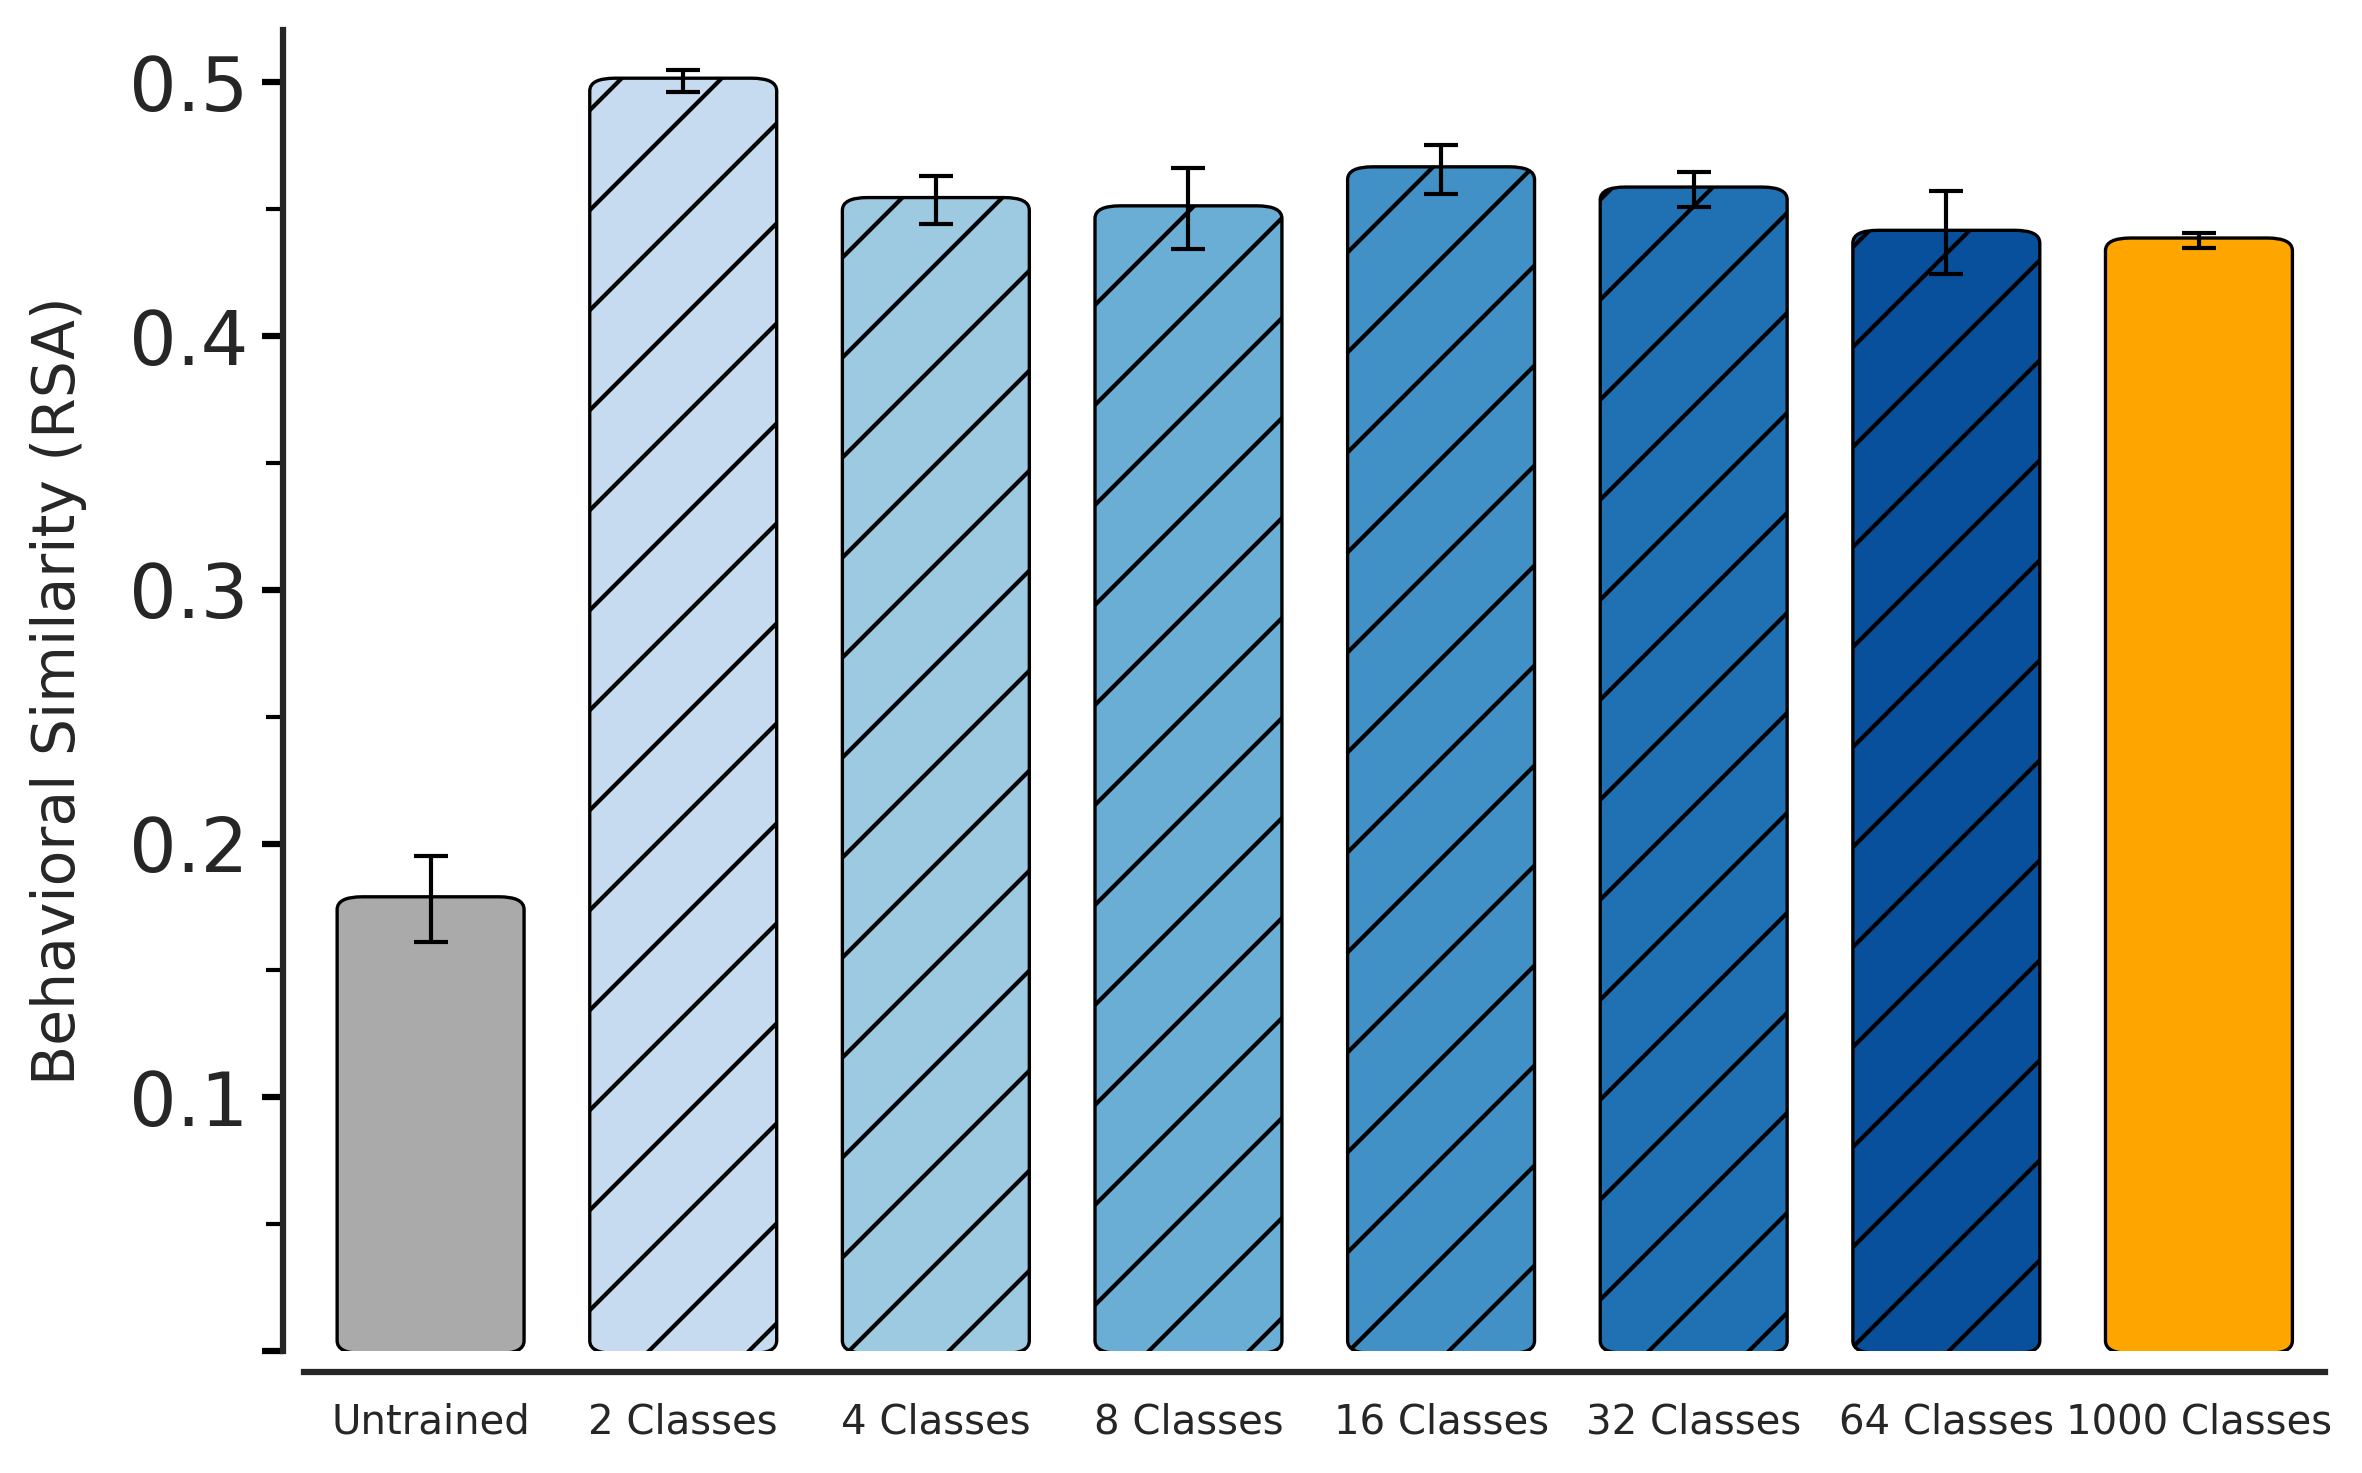
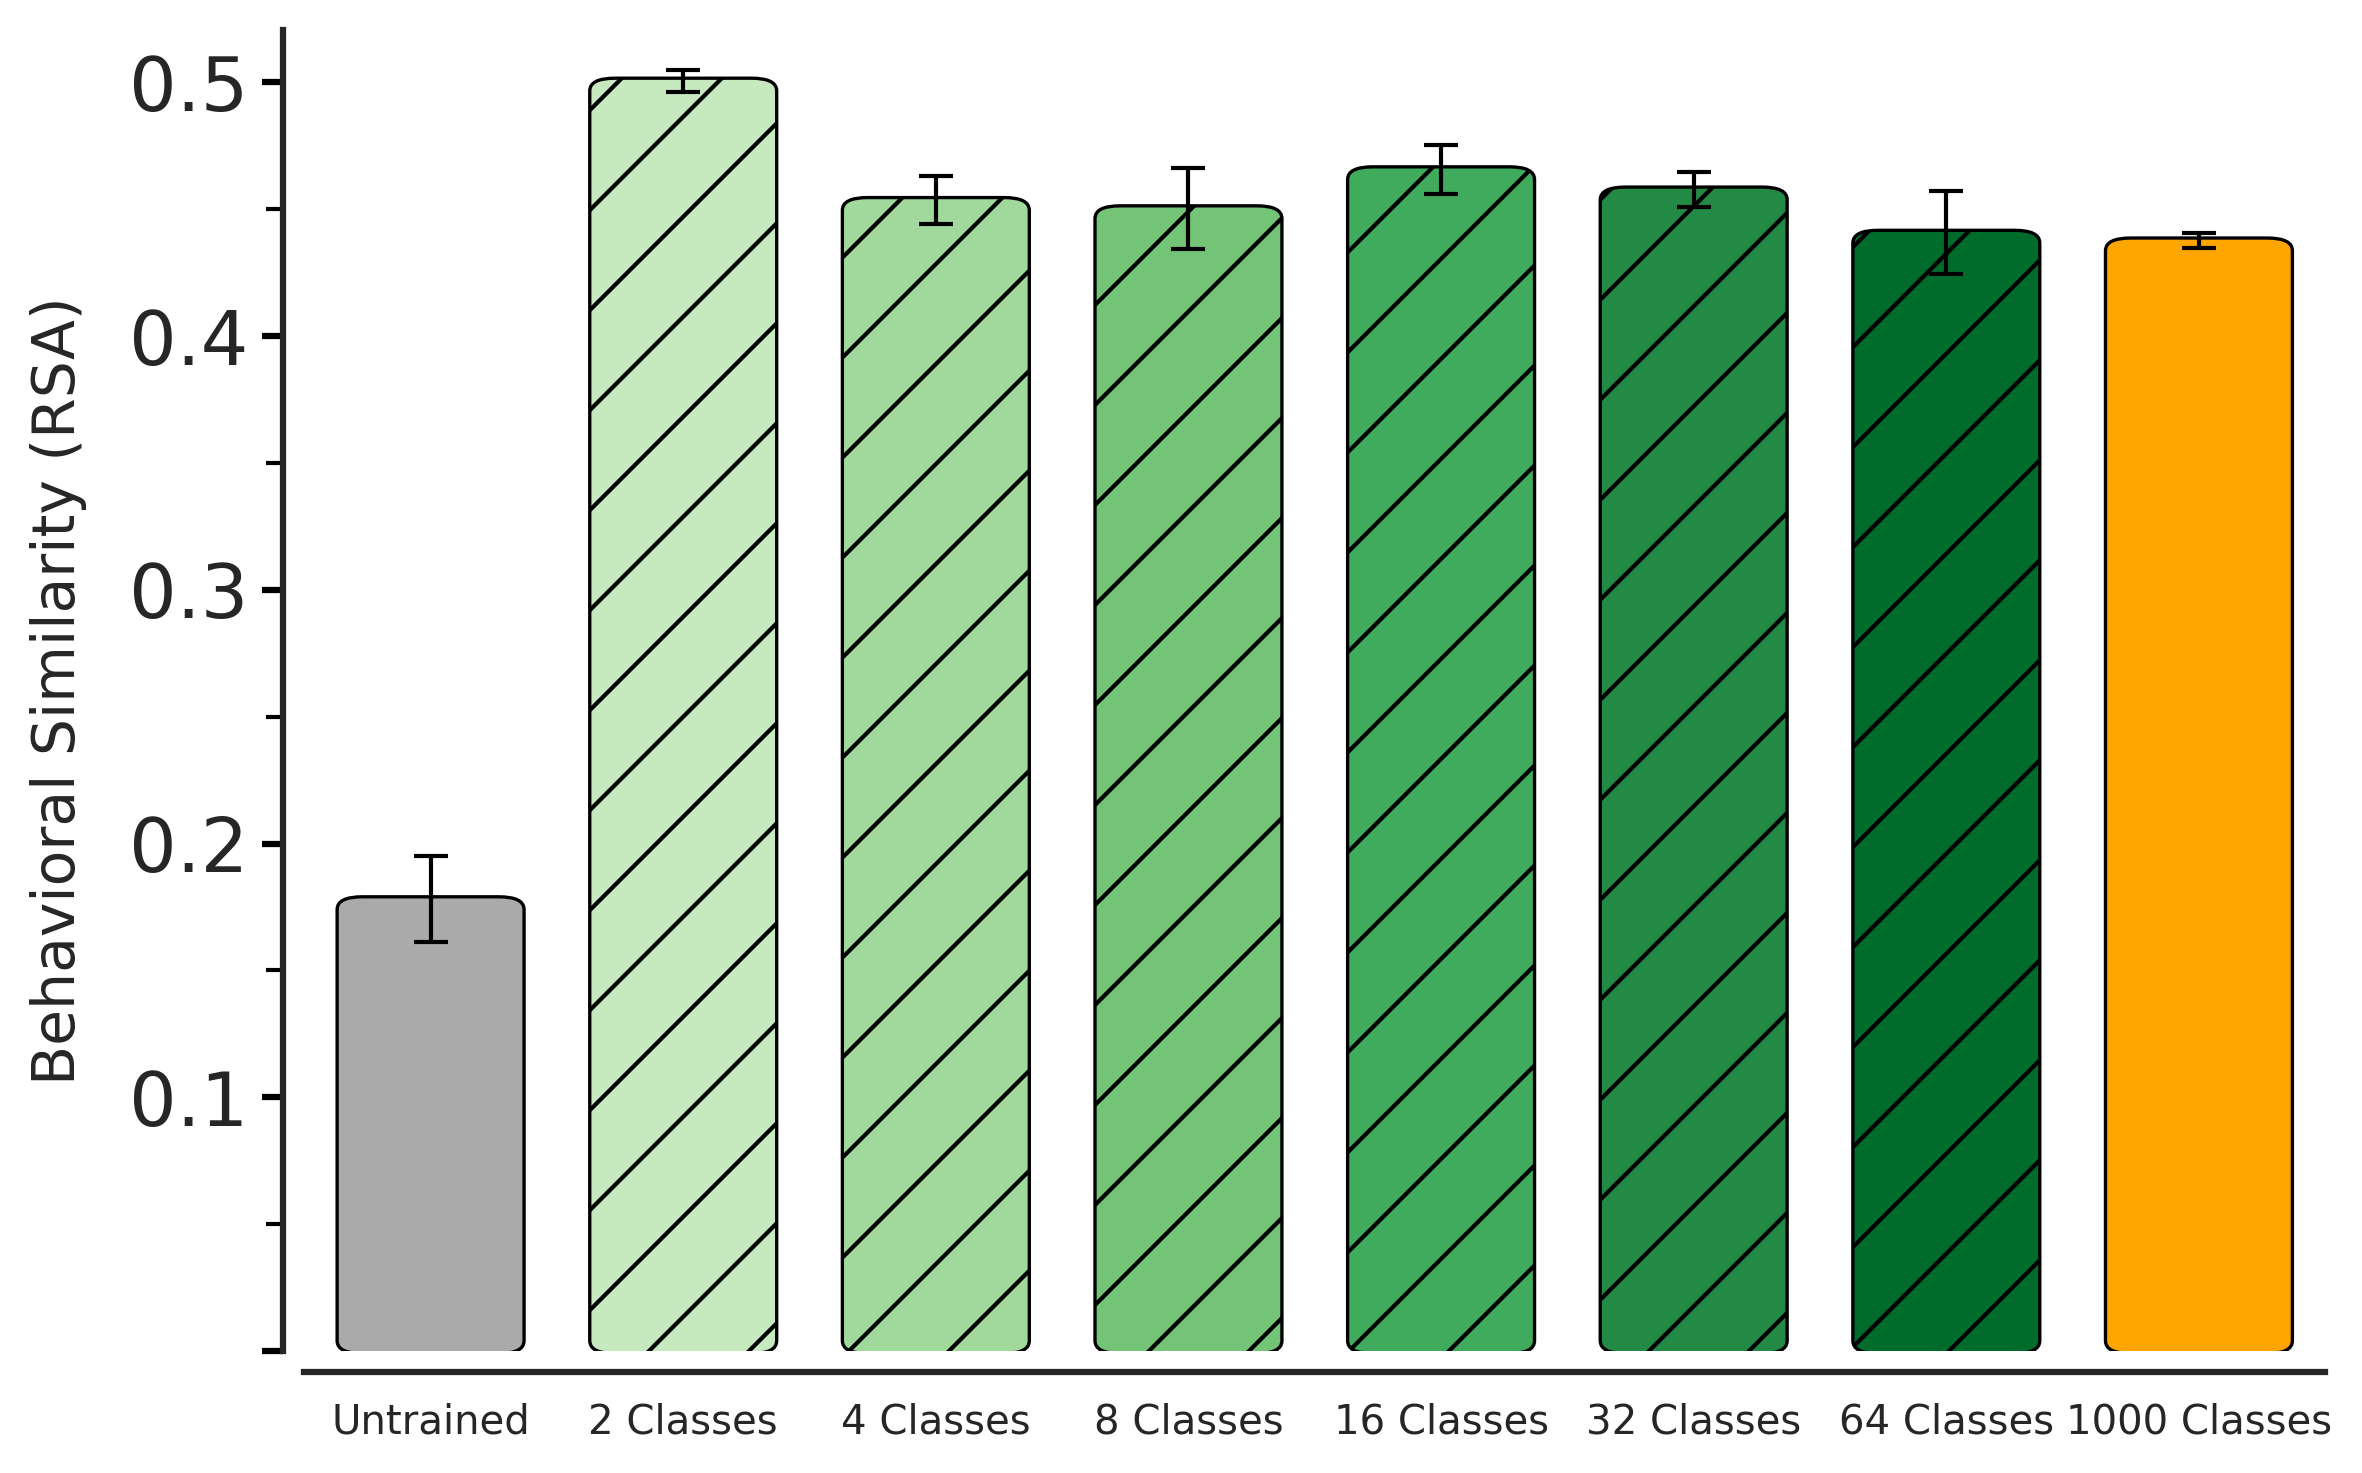
Figure stuff!

diff --git a/plotters/fig3/reconstructed_rsa_things.py b/plotters/fig3/reconstructed_rsa_things.py
@@ -23,7 +23,7 @@ import plotters.utils_plotter as plt_utils
 COLORS = {
     "initial": "#7f8c8d", # Grey for Untrained
     "final": "#FFA500",   # Adjusted to DarkOrange for 1000 Classes
-    "pca": dict(zip([2, 4, 8, 16, 32, 64], sns.color_palette('Blues', n_colors=6))),
+    "pca": dict(zip([2, 4, 8, 16, 32, 64], sns.color_palette('Greens', n_colors=6))),
 }
 
 def create_reconstructed_rsa_plot(
@@ -90,15 +90,19 @@ def create_reconstructed_rsa_plot(
             if not best_pc_layer_scores.empty:
                 mean_best_pc = best_pc_layer_scores.mean()
                 std_best_pc = best_pc_layer_scores.std()
+
+                pc_line_color = COLORS["pca"].get(4, '#808080') # Line color
                 
-                pc_color = COLORS["pca"].get(n_classes_best_pc, '#808080') 
-                pc_fill_color = sns.light_palette(pc_color, n_colors=3, as_cmap=False)[1] if isinstance(pc_color, str) else sns.set_hls_values(pc_color, l=0.85)
+                # Use a fixed blue from the COLORS["pca"] palette for the fill, as requested by the user.
+                # COLORS["pca"][16] is the 4th color in the 'Blues' palette of 6.
+                pc_fill_color = COLORS["pca"].get(2, '#ADD8E6') # Fill color - using a specific key from the palette
+                fill_alpha = 0.5
 
                 ax.plot(pca_k_values, np.full_like(pca_k_values, mean_best_pc, dtype=float),
-                        color=pc_color, linestyle='--', linewidth=2.275, 
+                        color=pc_line_color, linestyle='--', linewidth=2.275, 
                         label=f"{n_classes_best_pc} classes (full)", zorder=2)
                 ax.fill_between(pca_k_values, mean_best_pc - std_best_pc, mean_best_pc + std_best_pc, 
-                               color=pc_fill_color, alpha=0.25, zorder=1)
+                               color=pc_fill_color, alpha=fill_alpha, zorder=1)
 
         # Plot Untrained Data
         if untrained_data is not None and not untrained_data.empty:
@@ -185,37 +189,6 @@ def create_reconstructed_rsa_plot(
         plt.rcParams.update(original_rc_params) # Restore original rcParams
 
 
-_SKIP_ALWAYS = {"log_interval", "checkpoint_interval", "cfg_id", "score"}
-_PCA_COLS   = ("pca_labels", "pca_n_classes", "reconstruct_from_pcs", "pca_k")
-
-def _avg_over_subject_idx(df: pd.DataFrame) -> pd.DataFrame:
-    """
-    Collapse `subject_idx`; keep `seed` (if any) and PCA columns.
-    """
-    if df.empty or "subject_idx" not in df:
-        return df.copy()
-
-    d = df.copy()
-    d["subject_idx"] = pd.to_numeric(d["subject_idx"], errors="coerce")
-    d = d.dropna(subset=["subject_idx"])
-    if d.empty:
-        return d
-
-    skip = _SKIP_ALWAYS | {"subject_idx"}
-    group_cols = [c for c in d.columns if c not in skip]
-
-    out = (
-        d.groupby(group_cols, dropna=False, observed=False)["score"]
-          .mean()
-          .reset_index()
-    )
-
-    keep = ["layer", "score"]
-    if "seed" in out.columns:
-        keep.append("seed")
-    keep += [c for c in _PCA_COLS if c in out.columns]
-    return out[keep]
-
 def _load_csv(path: str) -> pd.DataFrame:
     if not os.path.isfile(path):
         raise FileNotFoundError(f"CSV file not found: {path}")
@@ -225,56 +198,44 @@ def _load_csv(path: str) -> pd.DataFrame:
 if __name__ == "__main__":
     cfg = {
         "metric": "Spearman",
-        "region": "ventral visual stream",
         "layers_1k": ["fc1"],
-        "layers_pc": ["fc1"],
-        "subject_idx": [0, 1, 2, 3, 4, 5, 6, 7],
+        "layers_pc": ["fc2"],
         "results_csv": "/home/ymehta3/research/VisionAI/visreps/logs/pc_reconstruction_analysis.csv",
-        "best_pc_n_classes": [64], # PCA n_classes to plot
-        "dataset": "nsd",
+        "best_pc_n_classes": [2], # PCA n_classes to plot
+        "dataset": "things",
     }
 
-    out_path = f"/home/ymehta3/research/VisionAI/visreps/plotters/fig2/reconstructed_rsa_{cfg['dataset']}_{cfg['region'][:6]}.png"
+    out_path = f"/home/ymehta3/research/VisionAI/visreps/plotters/fig3/reconstructed_rsa_{cfg['dataset']}.png"
     data_df = _load_csv(cfg["results_csv"])
     _, full_df = plt_utils.split_and_select_df(data_df,
                                             dataset=cfg["dataset"],
                                             metric=cfg["metric"],
-                                            region=cfg["region"],
                                             epoch=20,
-                                            subject_idx=cfg["subject_idx"],
                                             reconstruct_from_pcs=True,
                                             layers=cfg["layers_1k"])
 
-    full_df = _avg_over_subject_idx(full_df)
-    print("full_df: ", full_df)
-
+    print("full_df shape: ", full_df.shape)
     best_pc_df, _ = plt_utils.split_and_select_df(data_df,
                                         dataset=cfg["dataset"],
                                         metric=cfg["metric"],
-                                        region=cfg["region"],
                                         epoch=20,
-                                        subject_idx=cfg["subject_idx"],
                                         pca_n_classes=cfg["best_pc_n_classes"],
                                         reconstruct_from_pcs=False,
                                         layers=cfg["layers_pc"])
 
-    best_pc_df = _avg_over_subject_idx(best_pc_df)
-    print("best_pc_df: ", best_pc_df)
+    print("best_pc_df shape: ", best_pc_df.shape)
 
     untrained_results_csv = f"/home/ymehta3/research/VisionAI/visreps/logs/full-vs-pcs_{cfg['dataset']}.csv"
     data_df = _load_csv(untrained_results_csv)
     _, untrained_df = plt_utils.split_and_select_df(data_df,
                                             dataset=cfg["dataset"],
                                             metric=cfg["metric"],
-                                            region=cfg["region"],
                                             epoch=0,
-                                            subject_idx=cfg["subject_idx"],
                                             reconstruct_from_pcs=False,
                                             layers=cfg["layers_1k"])
 
     # This is the untrained results: should be plotted as a horizontal dashed line (mean + shaded std-dev).
-    untrained_df = _avg_over_subject_idx(untrained_df)
-    print("untrained_df: ", untrained_df)
+    print("untrained_df shape: ", untrained_df.shape)
 
     # Prepare reconstruction_data (3 seeds x 20 pca_k values)
     # Assuming seeds are 1, 2, 3 and pca_k are 1 to 20
@@ -283,6 +244,16 @@ if __name__ == "__main__":
     # Filter for the specific layer
     layer_to_plot = cfg["layers_1k"][0]
     reconstruction_subset = full_df[full_df['layer'] == layer_to_plot]
+
+    # Select only the columns essential for pivoting to prevent interference from other columns (e.g., 'region')
+    # that might have problematic values (like NaNs) for the "Things" dataset or other datasets.
+    # The pivot operation only needs 'seed', 'pca_k', and 'score'.
+    essential_pivot_cols = ['seed', 'pca_k', 'score']
+    
+    # Ensure that the DataFrame passed to pivot_table only contains these columns.
+    # If any of these essential columns are missing from full_df, 
+    # this selection (or the subsequent pivot_table call) will raise a KeyError, which is appropriate.
+    reconstruction_subset = reconstruction_subset[essential_pivot_cols]
 
     # Pivot table to get seeds as rows, pca_k as columns
     try:
@@ -319,7 +290,7 @@ if __name__ == "__main__":
 
         plot_cfg = {
             "metric": cfg["metric"],
-            "title": f'{cfg["metric"]} Score vs. PCs ({cfg["region"]}, Layer: {layer_to_plot}) - Reconstructed',
+            "title": f'{cfg["metric"]} Score vs. PCs, Layer: {layer_to_plot}) - Reconstructed',
             "layers_1k": cfg["layers_1k"],
             "layers_pc": cfg["layers_pc"],
             "best_pc_n_classes": cfg["best_pc_n_classes"],

diff --git a/plotters/fig4/full_vs_pcs_nsd.py b/plotters/fig4/full_vs_pcs_nsd.py
@@ -31,7 +31,8 @@ def create_comparison_plots(
     out_dir: str,
     min_y: float | None = None, # Added default None
     max_y: float | None = None, # Added default None
-    region_name: str = ""      # For filename
+    region_name: str = "",      # For filename
+    colors: str = "Blues"
 ):
     """Generate and save a comparison plot using pre-processed data."""
 
@@ -56,7 +57,7 @@ def create_comparison_plots(
     colours = {
         "initial": "#7f8c8d", # Grey for Untrained
         "final": "#FFA500",   # Adjusted to DarkOrange for 1000 Classes
-        "pca": dict(zip(pca_sizes_for_plot, sns.color_palette('Blues', n_colors=len(pca_sizes_for_plot)))),
+        "pca": dict(zip(pca_sizes_for_plot, sns.color_palette(colors, n_colors=len(pca_sizes_for_plot)))),
     }
 
     # --- Plotting (Single Plot) ---

diff --git a/plotters/fig3/bar_plot_things.py b/plotters/fig3/bar_plot_things.py
@@ -29,7 +29,7 @@ def plot_brain_score_barplot(scores_by_cond: dict[str, list[float]],
     # ── palette & hatches (same style) ───────────────────────────────────────
     untrained_c, thousand_c = '#AAAAAA', '#FFA500'
     pca_cats = [c for c in cats if c not in ('Untrained', '1000 Classes')]
-    blues    = sns.color_palette('Blues', n_colors=max(len(pca_cats), 1) + 1)[1:]
+    blues    = sns.color_palette('Greens', n_colors=max(len(pca_cats), 1) + 1)[1:]
 
     palette = {c: (untrained_c if c == 'Untrained'
                    else thousand_c if c == '1000 Classes'

diff --git a/plotters/fig3/full_vs_pcs_things.py b/plotters/fig3/full_vs_pcs_things.py
@@ -98,4 +98,5 @@ if __name__ == "__main__":
         max_y=max_y,
         pca_sizes_for_plot=cfg["pca_plot_n_classes"],
         out_dir=out_dir,
+        colors="Greens"
     )
